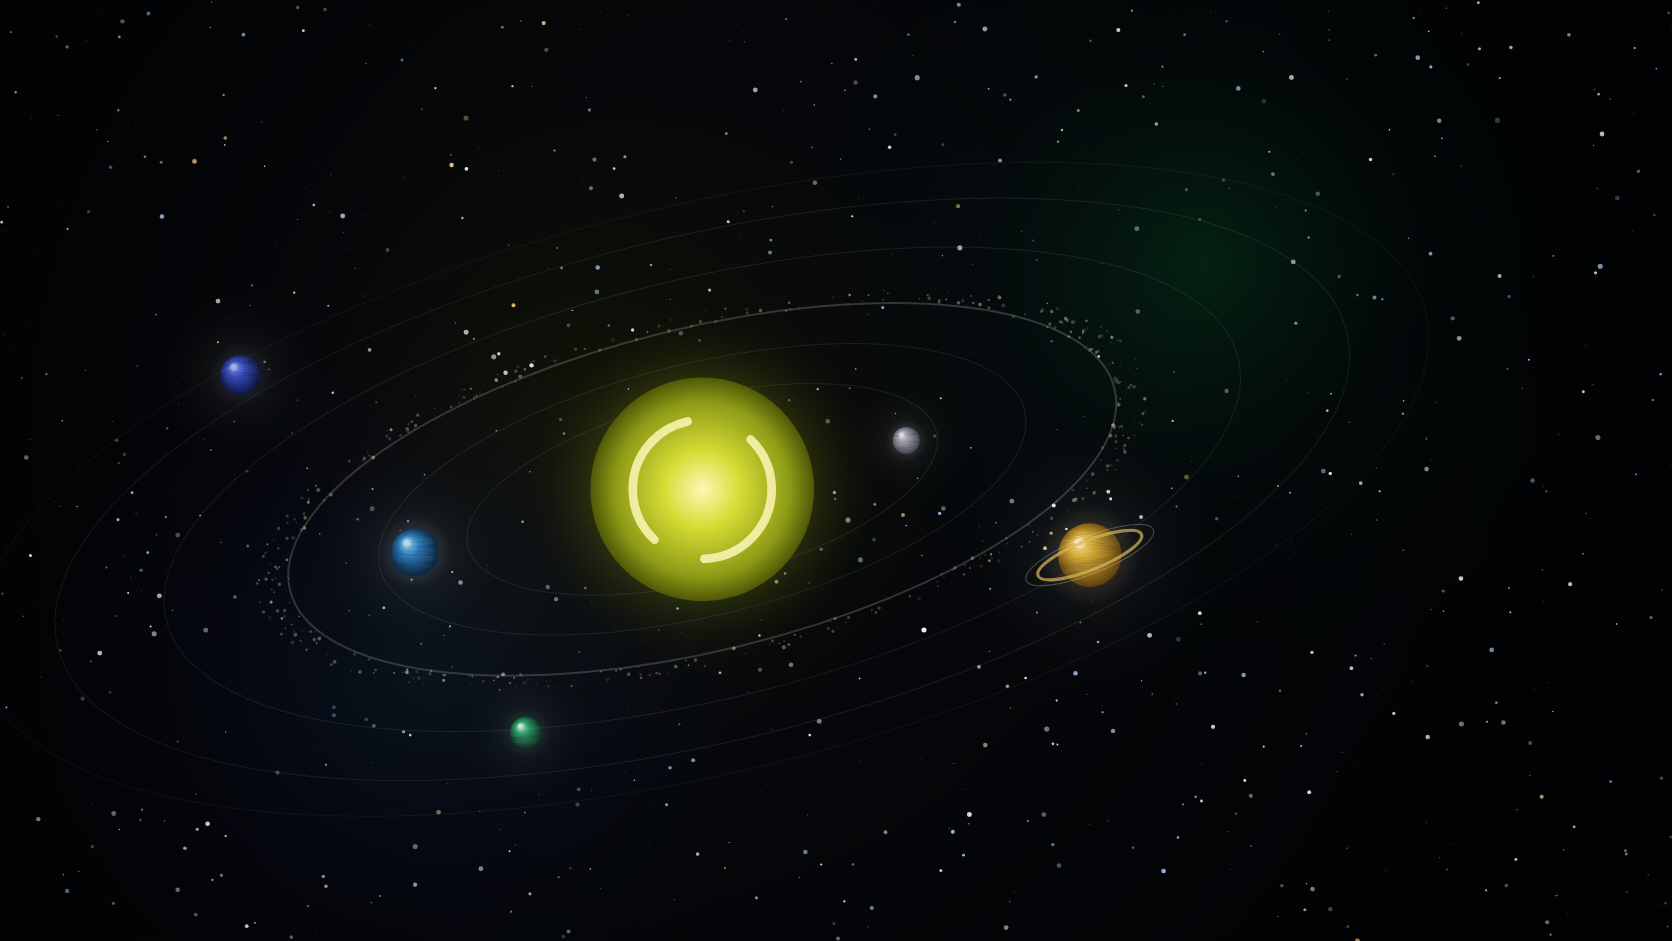
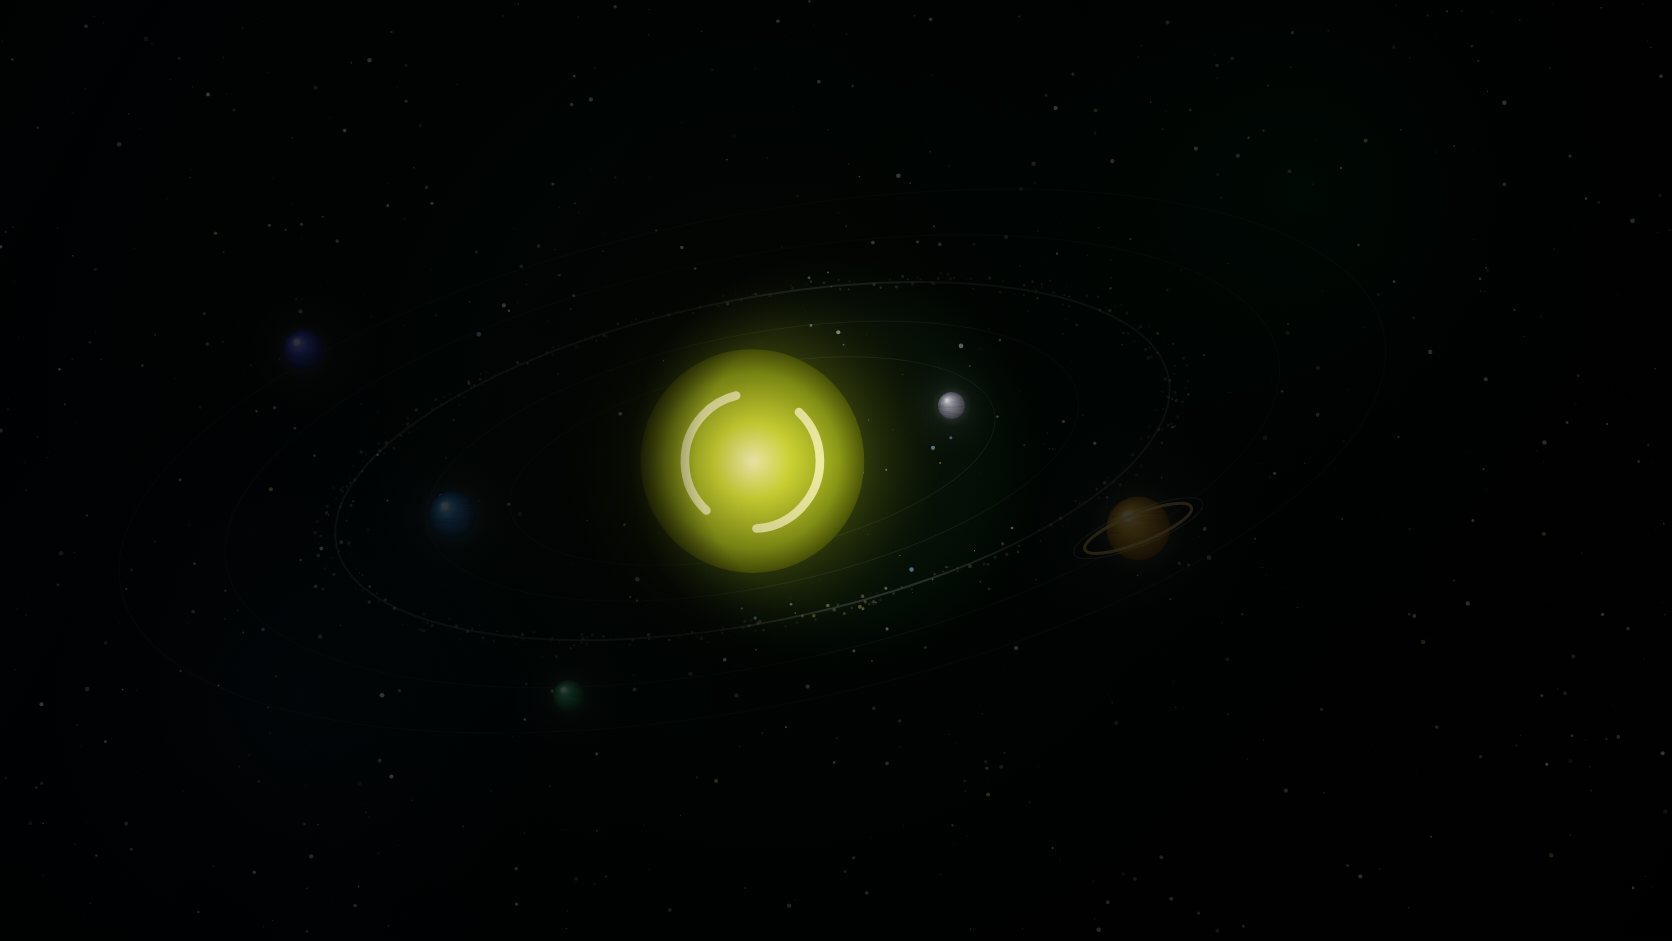
cards asjument

diff --git a/app/data/projects.ts b/app/data/projects.ts
@@ -77,13 +77,14 @@ export const PROJECTS: Project[] = [
       { label: "Company Site", url: "https://www.quarrylink.com.au/" },
     ],
     mediaLink: "https://www.quarrylink.com.au/",
+    cardImage: "/images/quarrylink-card.png",
     detailImage: "/images/quarrylink-detail-portrait.png",
     detailImageMobile: "/images/quarrylink-detail-landscape.png",
   },
   {
     num:   "02",
     env:   "FULL_STACK_PLATFORM",
-    date:  "2025",
+    date:  "2026.04-PRESENT",
     title: "PetBoard",
     tagline: "Full-stack pet boarding management platform for bookings, pets, invoices, and operations.",
     highlights: [
@@ -109,13 +110,14 @@ export const PROJECTS: Project[] = [
       { label: "Frontend Repo", url: "https://github.com/jiangzegege123/petboard-next" },
       { label: "Backend Repo", url: "https://github.com/jiangzegege123/petboard-service" },
     ],
+    cardImage: "/images/petboard-card.png",
     detailImage: "/images/petboard-detail-portrait.png",
     detailImageMobile: "/images/petboard-detail-landscape.png",
   },
   {
     num:   "03",
     env:   "PERSONAL_PORTFOLIO",
-    date:  "2026",
+    date:  "2026.02-PRESENT",
     title: "JohnnyPage",
     tagline: "Interactive developer portfolio built with modern Next.js, motion, and 3D scene transitions.",
     highlights: [
@@ -141,8 +143,8 @@ export const PROJECTS: Project[] = [
       { label: "GitHub Repo", url: "https://github.com/jiangzegege123/JohnnyPage" },
     ],
     cardImage: "/images/johnnypage-detail-landscape.png",
-    detailImage: "/images/johnnypage-detail-landscape.png",
-    detailImageMobile: "/images/johnnypage-detail-portrait.png",
+    detailImage: "/images/johnnypage-detail-portrait.png",
+    detailImageMobile: "/images/johnnypage-detail-landscape.png",
   },
   {
     num:   "04",

diff --git a/app/globals.css b/app/globals.css
@@ -294,10 +294,50 @@ body.project-detail-open .portfolio-navbar .nav-pill {
     transform    0.3s ease;
 }
 
+.project-card-header,
+.project-card-body,
+.project-card-stack {
+  position: relative;
+  z-index: 1;
+}
+
+.project-card-header {
+  gap: 14px;
+  line-height: 1.2;
+}
+
+.project-card-header span:last-child {
+  flex-shrink: 0;
+  text-align: right;
+}
+
+.project-card-body {
+  min-height: 0;
+}
+
+.project-card-tagline {
+  display: -webkit-box;
+  overflow: hidden;
+  -webkit-box-orient: vertical;
+  -webkit-line-clamp: 2;
+}
+
 .project-card:hover {
   border-color: rgba(255, 255, 255, 0.2);
   background: rgba(40, 40, 45, 0.6);
   transform: translateY(-4px);
+}
+
+.project-card-image,
+.project-modal-image {
+  bottom: auto !important;
+  height: auto !important;
+  left: 0 !important;
+  object-fit: contain;
+  object-position: top center;
+  right: auto !important;
+  top: 0 !important;
+  width: 100% !important;
 }
 
 .project-card-stack {
@@ -305,13 +345,18 @@ body.project-detail-open .portfolio-navbar .nav-pill {
   grid-template-columns: repeat(3, minmax(0, 1fr));
   align-content: start;
   gap: 6px 10px;
+  max-height: 30px;
   min-height: 30px;
+  overflow: hidden;
 }
 
 .project-card-stack .square-bullet {
+  display: block;
+  overflow: hidden;
   min-width: 0;
   font-size: 9px;
   line-height: 1.35;
+  text-overflow: ellipsis;
   white-space: nowrap;
 }
 
@@ -349,6 +394,7 @@ body.project-detail-open .portfolio-navbar .nav-pill {
   position: relative;
   min-height: 340px;
   background: #0f1012;
+  overflow: hidden;
 }
 
 .project-modal-media-link {

diff --git a/app/components/projects/ProjectCard.tsx b/app/components/projects/ProjectCard.tsx
@@ -26,30 +26,31 @@ export default function ProjectCard({ project: p, onOpen }: Props) {
             src={p.cardImage}
             alt={p.title}
             fill
-            className="object-cover opacity-20"
+            className="project-card-image opacity-20"
           />
         </div>
       )}
 
       {/* Env / date */}
-      <div className="flex justify-between text-[10px] font-medium text-muted tracking-[0.05em]">
+      <div className="project-card-header flex justify-between text-[10px] font-medium text-muted tracking-[0.05em]">
         <span>{p.env}</span>
         <span>{p.date}</span>
       </div>
 
       {/* Title + stack */}
-      <div>
+      <div className="project-card-body">
         <h3 className="text-xl font-extrabold tracking-[-0.02em] mb-2 text-white">
           {p.title}
         </h3>
-        <p className="mb-3 max-w-[24ch] text-sm leading-relaxed text-white/75">
+        <p className="project-card-tagline mb-3 max-w-[24ch] text-sm leading-relaxed text-white/75">
           {p.tagline}
         </p>
-        <div className="project-card-stack text-[10px] text-muted">
-          {p.stack.map((s) => (
-            <span key={s} className="square-bullet">{s}</span>
-          ))}
-        </div>
+      </div>
+
+      <div className="project-card-stack text-[10px] text-muted">
+        {p.stack.slice(0, 6).map((s) => (
+          <span key={s} className="square-bullet">{s}</span>
+        ))}
       </div>
     </button>
   );

diff --git a/app/components/projects/ProjectsView.tsx b/app/components/projects/ProjectsView.tsx
@@ -24,7 +24,7 @@ export default function ProjectsView() {
         src={selectedProject.detailImage}
         alt={selectedProject.title}
         fill
-        className={`object-cover object-top ${selectedProject.detailImageMobile ? "max-[900px]:hidden" : ""}`}
+        className={`project-modal-image ${selectedProject.detailImageMobile ? "max-[900px]:hidden" : ""}`}
         sizes="(max-width: 900px) 100vw, 42vw"
       />
       {selectedProject.detailImageMobile && (
@@ -32,7 +32,7 @@ export default function ProjectsView() {
           src={selectedProject.detailImageMobile}
           alt={selectedProject.title}
           fill
-          className="hidden object-cover object-top max-[900px]:block"
+          className="project-modal-image hidden max-[900px]:block"
           sizes="100vw"
         />
       )}
